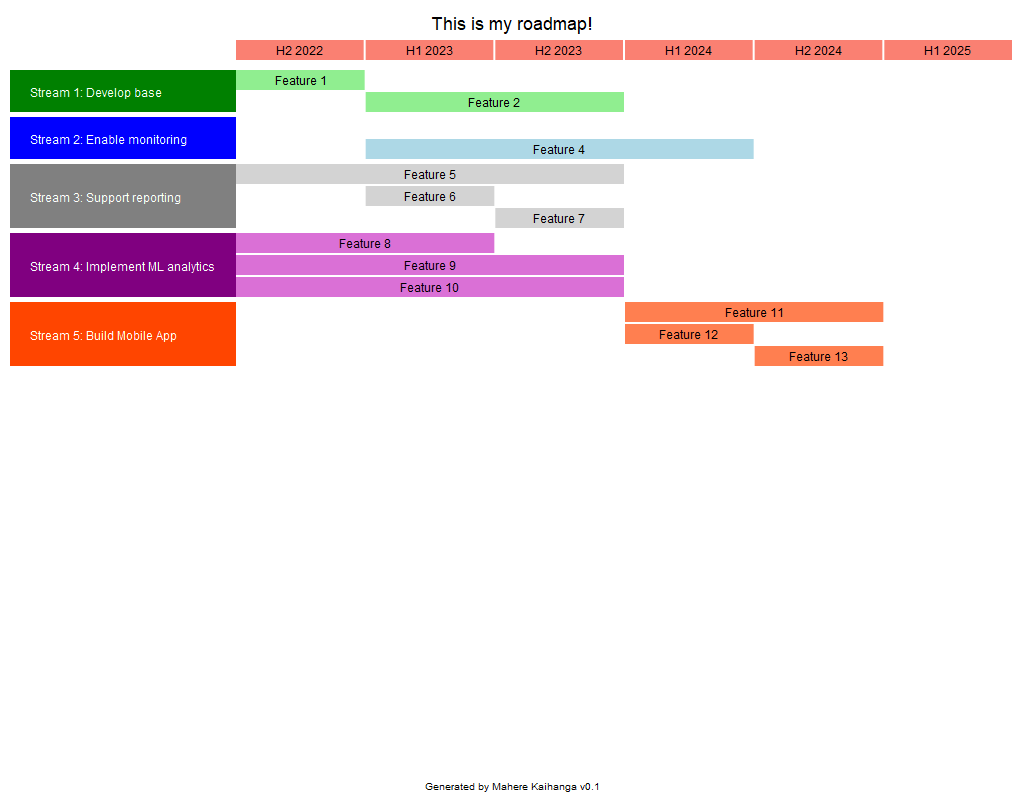
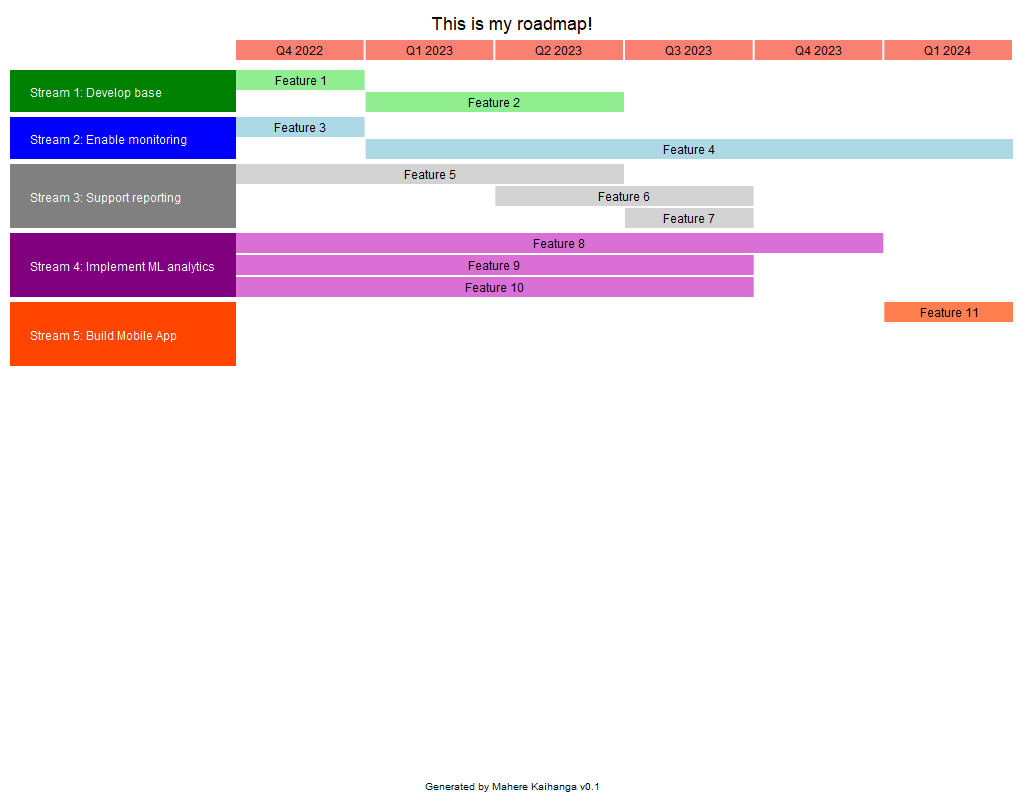
Added PDF file type

Changed region(s): [[0.3438, 0.1562, 1.0, 0.4688], [0.2188, 0.125, 0.375, 0.1875]]

diff --git a/MahereKaihanga.py b/MahereKaihanga.py
@@ -13,6 +13,18 @@
 # You should have received a copy of the GNU General Public License along with
 # this program.  If not, see <http://www.gnu.org/licenses/>.
 
+""" To do
+        Done (1) Display task text on top of bar
+        Done (2) Display group text as a block
+        (3) Show milestones
+        (4) Proporsion task bar according to the start and end date
+        Done (5) Week, Quarter, Half Year, Year timeline mode support
+        (6) Display current date marker
+        (7) Allow task text to wrap around multiple lines, hence auto enlarge the task bar height
+        (8) Auto expand surface canvas size if the task bar is too long
+        (9) Save as PDF
+"""
+
 import datetime
 from dateutil.relativedelta import relativedelta
 from painter import Painter
@@ -43,10 +55,12 @@ class MahereKaihanga():
     task_text_colour = ""
     tasks = []
     
-    def __init__(self, width, height) -> None:
-        self.painter = Painter(width, height)
+    def __init__(self, width, height, output_type, output_file_name) -> None:
+        self.painter = Painter(width, height, output_type, output_file_name)
         self.width = width
         self.height = height
+        self.output_type = output_type
+        self.output_file_name = output_file_name
 
     def render(self):
         # default settings
@@ -246,7 +260,7 @@ class MahereKaihanga():
                     
                     self.painter.set_colour(task.get("colour"))
                     self.painter.draw_box(bar_start_x_pos,task_box_y_pos, total_bar_width, task_box_height)
-                    print (f"{task_text} {bar_start_x_pos} {task_box_y_pos} {total_bar_width} {task_box_height}, {task_box_y_pos + task_box_height}")
+                    #print (f"{task_text} {bar_start_x_pos} {task_box_y_pos} {total_bar_width} {task_box_height}, {task_box_y_pos + task_box_height}")
                     
                     self.painter.set_font(self.text_font, 12, self.timeline_text_colour)
                     x_pos, y_pos = self.painter.get_display_text_position(bar_start_x_pos, task_box_y_pos, total_bar_width, text_height, task_text, "centre")
@@ -254,30 +268,20 @@ class MahereKaihanga():
                     self.painter.draw_text(x_pos, y_pos, f"{task_text}")
                 
                 j += 1
-
-
-                    
-
-        """ To do
-        Done (1) Display task text on top of bar
-        Done (2) Display group text as a block
-        (3) Show milestones
-        (4) Proporsion task bar according to the start and end date
-        Done (5) Week, Quarter, Half Year, Year timeline mode support
-        """
+        
         footer_text = "Generated by Mahere Kaihanga v0.1"
         self.painter.set_font(self.text_font, 10, self.footer_colour)
         self.painter.draw_footer(footer_text)
-        
-    def save_to_png(self, file_name):
-        self.painter.save_surface_to_png(file_name)
+        self.painter.save_surface()
+
 
 if __name__ == "__main__":
-    x = MahereKaihanga(1024, 800)
+    x = MahereKaihanga(1024, 800, "PNG", "my_roadmap.png")
     x.title = "This is my roadmap!"
+    #x.timeline_mode = MahereKaihanga.WEEKLY
     #x.timeline_mode = MahereKaihanga.MONTHLY
-    #x.timeline_mode = MahereKaihanga.QUARTERLY
-    x.timeline_mode = MahereKaihanga.HALF_YEARLY
+    x.timeline_mode = MahereKaihanga.QUARTERLY
+    #x.timeline_mode = MahereKaihanga.HALF_YEARLY
     #x.timeline_mode = MahereKaihanga.YEARLY
     x.timeline_item = 6
 
@@ -307,7 +311,7 @@ if __name__ == "__main__":
                 ]}              
             ]
     x.render()
-    x.save_to_png("my_roadmap.png")
+
 
 
     

diff --git a/painter.py b/painter.py
@@ -13,17 +13,25 @@
 # You should have received a copy of the GNU General Public License along with
 # this program.  If not, see <http://www.gnu.org/licenses/>.
 import cairo
+from cairo import PDFSurface
 from webcolors import name_to_rgb
 
 class Painter():    
     __VSPACER, __HSPACER = 12, 2
     
     # initialise code
-    def __init__(self, width, height):
-        self.surface = cairo.ImageSurface(cairo.FORMAT_ARGB32, width, height)
+    def __init__(self, width, height, output_type, output_file_name):
+        if output_type == "PNG": 
+            if output_file_name == "": output_file_name = "roadmap.png"
+            self.surface = cairo.ImageSurface(cairo.FORMAT_ARGB32, width, height)
+        if output_type == "PDF": 
+            if output_file_name == "": output_file_name = "roadmap.pdf"
+            self.surface = cairo.PDFSurface(output_file_name, width, height)
         self.cr = cairo.Context(self.surface)
         self.Width = width
         self.Height = height
+        self.output_type = output_type
+        self.output_file_name = output_file_name
 
     def rgb_to_float(self, colour):
         # Convert RGBS to floats
@@ -58,7 +66,6 @@ class Painter():
     def draw_group(self, x, y, max_width, group):
         group_text = group.get("group")
         last_y_pos = 0        
-        group_task_width, group_text_height = self.get_text_dimension(group_text)
         
         # Calc group height
         task_count = len(group.get("tasks"))
@@ -67,7 +74,7 @@ class Painter():
             
         self.set_colour(group.get("colour"))
         self.draw_box(x, y, group_total_width, group_total_height)
-        print (f"Drawing group {group_text} y:{y}, h:{group_total_height}, total={y+group_total_height}")
+        #print (f"Drawing group {group_text} y:{y}, h:{group_total_height}, total={y+group_total_height}")
         self.set_colour("White")
         x_pos, y_pos = self.get_display_text_position(x, y, group_total_width, group_total_height, group_text, "left")
         self.draw_text(x_pos, y_pos, group_text)
@@ -94,9 +101,11 @@ class Painter():
             
         return x+text_x_pos, y+text_y_pos
     
-    def save_surface_to_png(self, file_name):
-        if (len(file_name) == 0):
-            file_name = "roadmap.png"
-        self.surface.write_to_png(file_name)  # Output to PNG
+    def save_surface(self):
+        if self.output_type == "PNG": 
+            self.surface.write_to_png(self.output_file_name)  # Output to PNG
+        if self.output_type == "PDF": 
+            self.surface.show_page()
+        
 
 
